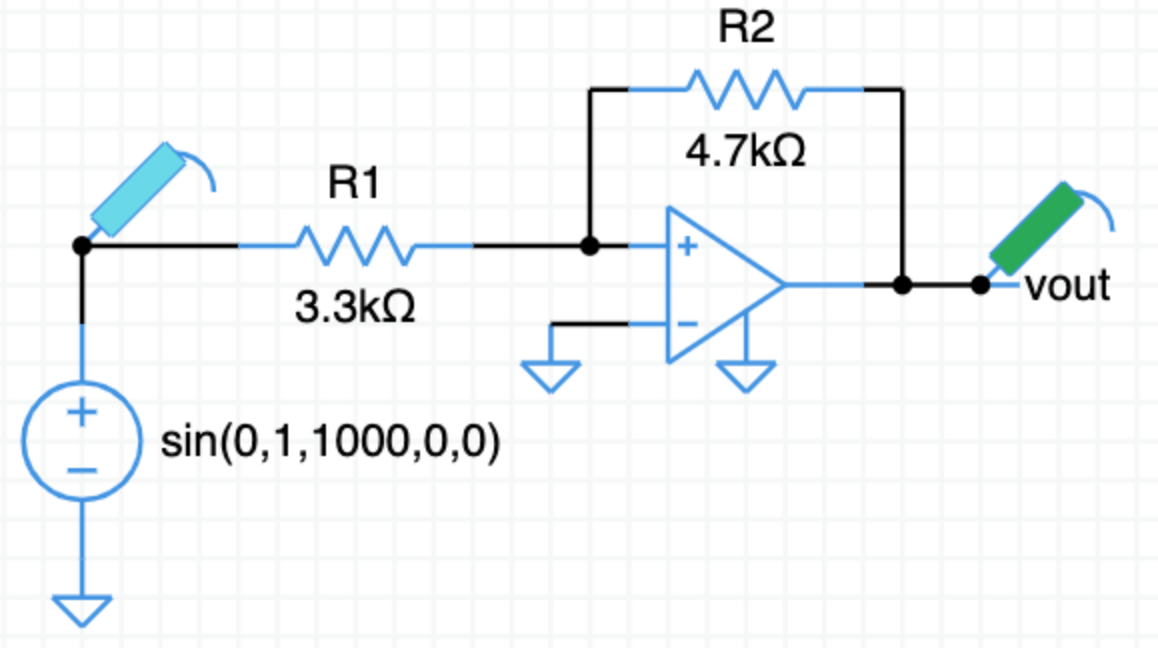
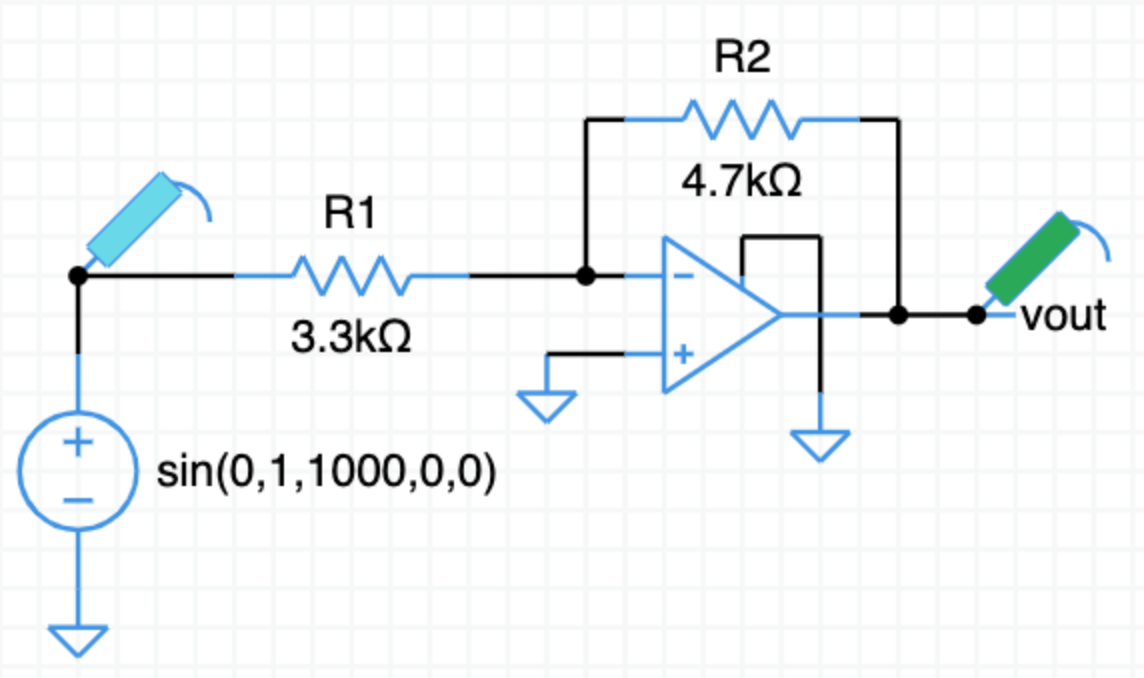
Flip opamp orientation in example.

Changed region(s): [[0.0, 0.0, 0.979, 0.9877]]

diff --git a/_articles/opamp-inverting-exercise.md b/_articles/opamp-inverting-exercise.md
@@ -4,9 +4,10 @@ title:  "Inverting opamp exercise"
 author: Willy McAllister
 comments: true
 ---
-![Inverting opamp example circuit]({{ site.baseurl }}{% link i/opamp_inverting_example.png %}){: .centered }{: height="300px" :} 
 
-Open this [simulation model of an inverting amplifier](https://spinningnumbers.org/circuit-sandbox/index.html?value=%5B%5B%22w%22%2C%5B256%2C96%2C240%2C96%5D%5D%2C%5B%22w%22%2C%5B232%2C96%2C240%2C96%5D%5D%2C%5B%22w%22%2C%5B240%2C56%2C240%2C96%5D%5D%2C%5B%22w%22%2C%5B232%2C56%2C240%2C56%5D%5D%2C%5B%22w%22%2C%5B152%2C88%2C176%2C88%5D%5D%2C%5B%22w%22%2C%5B184%2C88%2C176%2C88%5D%5D%2C%5B%22w%22%2C%5B176%2C56%2C176%2C88%5D%5D%2C%5B%22w%22%2C%5B184%2C56%2C176%2C56%5D%5D%2C%5B%22w%22%2C%5B104%2C88%2C72%2C88%5D%5D%2C%5B%22s%22%2C%5B256%2C96%2C0%5D%2C%7B%22color%22%3A%22green%22%2C%22offset%22%3A%220%22%2C%22_json_%22%3A9%7D%2C%5B%22vout%22%5D%5D%2C%5B%22s%22%2C%5B72%2C88%2C0%5D%2C%7B%22color%22%3A%22cyan%22%2C%22offset%22%3A%220%22%2C%22_json_%22%3A10%7D%2C%5B%222%22%5D%5D%2C%5B%22g%22%2C%5B208%2C104%2C0%5D%2C%7B%22_json_%22%3A11%7D%2C%5B%220%22%5D%5D%2C%5B%22g%22%2C%5B168%2C104%2C0%5D%2C%7B%22_json_%22%3A12%7D%2C%5B%220%22%5D%5D%2C%5B%22g%22%2C%5B72%2C152%2C0%5D%2C%7B%22_json_%22%3A13%7D%2C%5B%220%22%5D%5D%2C%5B%22w%22%2C%5B72%2C104%2C72%2C88%5D%5D%2C%5B%22v%22%2C%5B72%2C104%2C0%5D%2C%7B%22name%22%3A%22%22%2C%22value%22%3A%22sin(0%2C1%2C1000%2C0%2C0)%22%2C%22_json_%22%3A15%7D%2C%5B%222%22%2C%220%22%5D%5D%2C%5B%22L%22%2C%5B256%2C96%2C0%5D%2C%7B%22label%22%3A%22vout%22%2C%22_json_%22%3A16%7D%2C%5B%22vout%22%5D%5D%2C%5B%22w%22%2C%5B184%2C104%2C168%2C104%5D%5D%2C%5B%22r%22%2C%5B232%2C56%2C1%5D%2C%7B%22name%22%3A%22R2%22%2C%22r%22%3A%224.7k%22%2C%22_json_%22%3A18%7D%2C%5B%22vout%22%2C%221%22%5D%5D%2C%5B%22r%22%2C%5B152%2C88%2C1%5D%2C%7B%22name%22%3A%22R1%22%2C%22r%22%3A%223.3k%22%2C%22_json_%22%3A19%7D%2C%5B%221%22%2C%222%22%5D%5D%2C%5B%22o%22%2C%5B184%2C88%2C0%5D%2C%7B%22A%22%3A%2230000%22%2C%22_json_%22%3A20%7D%2C%5B%221%22%2C%220%22%2C%22vout%22%2C%220%22%5D%5D%2C%5B%22view%22%2C7.659999999999997%2C14.292000000000002%2C2.44140625%2C%2250%22%2C%2210%22%2C%221G%22%2Cnull%2C%22100%22%2C%220.009%22%2C%221000%22%5D%5D) in a new browser tab.
+Open this [simulation model of an inverting amplifier](https://spinningnumbers.org/circuit-sandbox/index.html?value=%5B%5B%22o%22%2C%5B184%2C104%2C6%5D%2C%7B%22A%22%3A%2230000%22%2C%22_json_%22%3A0%7D%2C%5B%220%22%2C%222%22%2C%22vout%22%2C%220%22%5D%5D%2C%5B%22r%22%2C%5B152%2C88%2C1%5D%2C%7B%22name%22%3A%22R1%22%2C%22r%22%3A%223.3k%22%2C%22_json_%22%3A1%7D%2C%5B%222%22%2C%221%22%5D%5D%2C%5B%22r%22%2C%5B232%2C56%2C1%5D%2C%7B%22name%22%3A%22R2%22%2C%22r%22%3A%224.7k%22%2C%22_json_%22%3A2%7D%2C%5B%22vout%22%2C%222%22%5D%5D%2C%5B%22w%22%2C%5B184%2C104%2C168%2C104%5D%5D%2C%5B%22L%22%2C%5B256%2C96%2C0%5D%2C%7B%22label%22%3A%22vout%22%2C%22_json_%22%3A4%7D%2C%5B%22vout%22%5D%5D%2C%5B%22v%22%2C%5B72%2C104%2C0%5D%2C%7B%22name%22%3A%22%22%2C%22value%22%3A%22sin(0%2C1%2C1000%2C0%2C0)%22%2C%22_json_%22%3A5%7D%2C%5B%221%22%2C%220%22%5D%5D%2C%5B%22w%22%2C%5B72%2C104%2C72%2C88%5D%5D%2C%5B%22g%22%2C%5B72%2C152%2C0%5D%2C%7B%22_json_%22%3A7%7D%2C%5B%220%22%5D%5D%2C%5B%22g%22%2C%5B168%2C104%2C0%5D%2C%7B%22_json_%22%3A8%7D%2C%5B%220%22%5D%5D%2C%5B%22g%22%2C%5B224%2C112%2C0%5D%2C%7B%22_json_%22%3A9%7D%2C%5B%220%22%5D%5D%2C%5B%22s%22%2C%5B72%2C88%2C0%5D%2C%7B%22color%22%3A%22cyan%22%2C%22offset%22%3A%220%22%2C%22_json_%22%3A10%7D%2C%5B%221%22%5D%5D%2C%5B%22s%22%2C%5B256%2C96%2C0%5D%2C%7B%22color%22%3A%22green%22%2C%22offset%22%3A%220%22%2C%22_json_%22%3A11%7D%2C%5B%22vout%22%5D%5D%2C%5B%22w%22%2C%5B104%2C88%2C72%2C88%5D%5D%2C%5B%22w%22%2C%5B184%2C56%2C176%2C56%5D%5D%2C%5B%22w%22%2C%5B176%2C56%2C176%2C88%5D%5D%2C%5B%22w%22%2C%5B184%2C88%2C176%2C88%5D%5D%2C%5B%22w%22%2C%5B232%2C56%2C240%2C56%5D%5D%2C%5B%22w%22%2C%5B240%2C56%2C240%2C96%5D%5D%2C%5B%22w%22%2C%5B232%2C96%2C240%2C96%5D%5D%2C%5B%22w%22%2C%5B256%2C96%2C240%2C96%5D%5D%2C%5B%22w%22%2C%5B152%2C88%2C176%2C88%5D%5D%2C%5B%22w%22%2C%5B224%2C112%2C224%2C80%5D%5D%2C%5B%22w%22%2C%5B224%2C80%2C208%2C80%5D%5D%2C%5B%22w%22%2C%5B208%2C80%2C208%2C88%5D%5D%2C%5B%22view%22%2C7.66%2C14.292%2C2.44140625%2C%2250%22%2C%2210%22%2C%221G%22%2Cnull%2C%22100%22%2C%220.004%22%2C%221000%22%5D%5D) in a new browser tab.
+
+[![Inverting opamp example circuit]({{ site.baseurl }}{% link i/opamp_inverting_example.png %}){: .centered }{: height="300px" :}](https://spinningnumbers.org/circuit-sandbox/index.html?value=%5B%5B%22o%22%2C%5B184%2C104%2C6%5D%2C%7B%22A%22%3A%2230000%22%2C%22_json_%22%3A0%7D%2C%5B%220%22%2C%222%22%2C%22vout%22%2C%220%22%5D%5D%2C%5B%22r%22%2C%5B152%2C88%2C1%5D%2C%7B%22name%22%3A%22R1%22%2C%22r%22%3A%223.3k%22%2C%22_json_%22%3A1%7D%2C%5B%222%22%2C%221%22%5D%5D%2C%5B%22r%22%2C%5B232%2C56%2C1%5D%2C%7B%22name%22%3A%22R2%22%2C%22r%22%3A%224.7k%22%2C%22_json_%22%3A2%7D%2C%5B%22vout%22%2C%222%22%5D%5D%2C%5B%22w%22%2C%5B184%2C104%2C168%2C104%5D%5D%2C%5B%22L%22%2C%5B256%2C96%2C0%5D%2C%7B%22label%22%3A%22vout%22%2C%22_json_%22%3A4%7D%2C%5B%22vout%22%5D%5D%2C%5B%22v%22%2C%5B72%2C104%2C0%5D%2C%7B%22name%22%3A%22%22%2C%22value%22%3A%22sin(0%2C1%2C1000%2C0%2C0)%22%2C%22_json_%22%3A5%7D%2C%5B%221%22%2C%220%22%5D%5D%2C%5B%22w%22%2C%5B72%2C104%2C72%2C88%5D%5D%2C%5B%22g%22%2C%5B72%2C152%2C0%5D%2C%7B%22_json_%22%3A7%7D%2C%5B%220%22%5D%5D%2C%5B%22g%22%2C%5B168%2C104%2C0%5D%2C%7B%22_json_%22%3A8%7D%2C%5B%220%22%5D%5D%2C%5B%22g%22%2C%5B224%2C112%2C0%5D%2C%7B%22_json_%22%3A9%7D%2C%5B%220%22%5D%5D%2C%5B%22s%22%2C%5B72%2C88%2C0%5D%2C%7B%22color%22%3A%22cyan%22%2C%22offset%22%3A%220%22%2C%22_json_%22%3A10%7D%2C%5B%221%22%5D%5D%2C%5B%22s%22%2C%5B256%2C96%2C0%5D%2C%7B%22color%22%3A%22green%22%2C%22offset%22%3A%220%22%2C%22_json_%22%3A11%7D%2C%5B%22vout%22%5D%5D%2C%5B%22w%22%2C%5B104%2C88%2C72%2C88%5D%5D%2C%5B%22w%22%2C%5B184%2C56%2C176%2C56%5D%5D%2C%5B%22w%22%2C%5B176%2C56%2C176%2C88%5D%5D%2C%5B%22w%22%2C%5B184%2C88%2C176%2C88%5D%5D%2C%5B%22w%22%2C%5B232%2C56%2C240%2C56%5D%5D%2C%5B%22w%22%2C%5B240%2C56%2C240%2C96%5D%5D%2C%5B%22w%22%2C%5B232%2C96%2C240%2C96%5D%5D%2C%5B%22w%22%2C%5B256%2C96%2C240%2C96%5D%5D%2C%5B%22w%22%2C%5B152%2C88%2C176%2C88%5D%5D%2C%5B%22w%22%2C%5B224%2C112%2C224%2C80%5D%5D%2C%5B%22w%22%2C%5B224%2C80%2C208%2C80%5D%5D%2C%5B%22w%22%2C%5B208%2C80%2C208%2C88%5D%5D%2C%5B%22view%22%2C7.66%2C14.292%2C2.44140625%2C%2250%22%2C%2210%22%2C%221G%22%2Cnull%2C%22100%22%2C%220.004%22%2C%221000%22%5D%5D) 
 
 **What is the expected gain of this amplifier?**
 

diff --git a/_articles/opamp-non-inverting-exercise.md b/_articles/opamp-non-inverting-exercise.md
@@ -5,7 +5,9 @@ author: Willy McAllister
 comments: true
 ---
 
-Open this simulation model of a [non-inverting amplifier](https://spinningnumbers.org/circuit-sandbox/index.html?value=[["o",[184,88,0],{"A":"30000","_json_":0},["1","2","vout","0"]],["r",[248,96,0],{"name":"R1","r":"5k","_json_":1},["vout","2"]],["r",[248,144,0],{"name":"R2","r":"10k","_json_":2},["2","0"]],["w",[184,104,168,104]],["w",[168,104,168,144]],["w",[168,144,248,144]],["w",[232,96,248,96]],["w",[272,96,248,96]],["L",[272,96,0],{"label":"vout","_json_":8},["vout"]],["v",[72,104,0],{"name":"","value":"sin(0,1,1000,0,0)","_json_":9},["1","0"]],["w",[72,104,72,88]],["g",[72,152,0],{"_json_":11},["0"]],["g",[248,192,0],{"_json_":12},["0"]],["g",[208,104,0],{"_json_":13},["0"]],["s",[128,88,0],{"color":"cyan","offset":"0","_json_":14},["1"]],["s",[272,96,0],{"color":"green","offset":"0","_json_":15},["vout"]],["w",[184,88,128,88]],["w",[72,88,128,88]],["view",15.659999999999997,42.292,2.44140625,"50","10","1G",null,"100","0.009","1000"]]) in another browser tab.
+Open this [simulation model of a non-inverting amplifier](https://spinningnumbers.org/circuit-sandbox/index.html?value=%5B%5B%22o%22%2C%5B184%2C88%2C0%5D%2C%7B%22A%22%3A%2230000%22%2C%22_json_%22%3A0%7D%2C%5B%221%22%2C%222%22%2C%22vout%22%2C%220%22%5D%5D%2C%5B%22r%22%2C%5B248%2C96%2C0%5D%2C%7B%22name%22%3A%22R1%22%2C%22r%22%3A%225k%22%2C%22_json_%22%3A1%7D%2C%5B%22vout%22%2C%222%22%5D%5D%2C%5B%22r%22%2C%5B248%2C144%2C0%5D%2C%7B%22name%22%3A%22R2%22%2C%22r%22%3A%2210k%22%2C%22_json_%22%3A2%7D%2C%5B%222%22%2C%220%22%5D%5D%2C%5B%22w%22%2C%5B184%2C104%2C168%2C104%5D%5D%2C%5B%22w%22%2C%5B168%2C104%2C168%2C144%5D%5D%2C%5B%22w%22%2C%5B168%2C144%2C248%2C144%5D%5D%2C%5B%22w%22%2C%5B232%2C96%2C248%2C96%5D%5D%2C%5B%22w%22%2C%5B272%2C96%2C248%2C96%5D%5D%2C%5B%22L%22%2C%5B272%2C96%2C0%5D%2C%7B%22label%22%3A%22vout%22%2C%22_json_%22%3A8%7D%2C%5B%22vout%22%5D%5D%2C%5B%22v%22%2C%5B72%2C104%2C0%5D%2C%7B%22name%22%3A%22%22%2C%22value%22%3A%22sin(0%2C1%2C1000%2C0%2C0)%22%2C%22_json_%22%3A9%7D%2C%5B%221%22%2C%220%22%5D%5D%2C%5B%22w%22%2C%5B72%2C104%2C72%2C88%5D%5D%2C%5B%22g%22%2C%5B72%2C152%2C0%5D%2C%7B%22_json_%22%3A11%7D%2C%5B%220%22%5D%5D%2C%5B%22g%22%2C%5B248%2C192%2C0%5D%2C%7B%22_json_%22%3A12%7D%2C%5B%220%22%5D%5D%2C%5B%22g%22%2C%5B208%2C104%2C0%5D%2C%7B%22_json_%22%3A13%7D%2C%5B%220%22%5D%5D%2C%5B%22s%22%2C%5B128%2C88%2C0%5D%2C%7B%22color%22%3A%22cyan%22%2C%22offset%22%3A%220%22%2C%22_json_%22%3A14%7D%2C%5B%221%22%5D%5D%2C%5B%22s%22%2C%5B272%2C96%2C0%5D%2C%7B%22color%22%3A%22green%22%2C%22offset%22%3A%220%22%2C%22_json_%22%3A15%7D%2C%5B%22vout%22%5D%5D%2C%5B%22w%22%2C%5B184%2C88%2C128%2C88%5D%5D%2C%5B%22w%22%2C%5B72%2C88%2C128%2C88%5D%5D%2C%5B%22view%22%2C15.66%2C42.292%2C2.44140625%2C%2250%22%2C%2210%22%2C%221G%22%2Cnull%2C%22100%22%2C%220.004%22%2C%221000%22%5D%5D) in another browser tab.
+
+[![Inverting opamp example circuit]({{ site.baseurl }}{% link i/opamp_non_inverting_example.png %}){: .centered }{: height="300px" :}](https://spinningnumbers.org/circuit-sandbox/index.html?value=%5B%5B%22o%22%2C%5B184%2C88%2C0%5D%2C%7B%22A%22%3A%2230000%22%2C%22_json_%22%3A0%7D%2C%5B%221%22%2C%222%22%2C%22vout%22%2C%220%22%5D%5D%2C%5B%22r%22%2C%5B248%2C96%2C0%5D%2C%7B%22name%22%3A%22R1%22%2C%22r%22%3A%225k%22%2C%22_json_%22%3A1%7D%2C%5B%22vout%22%2C%222%22%5D%5D%2C%5B%22r%22%2C%5B248%2C144%2C0%5D%2C%7B%22name%22%3A%22R2%22%2C%22r%22%3A%2210k%22%2C%22_json_%22%3A2%7D%2C%5B%222%22%2C%220%22%5D%5D%2C%5B%22w%22%2C%5B184%2C104%2C168%2C104%5D%5D%2C%5B%22w%22%2C%5B168%2C104%2C168%2C144%5D%5D%2C%5B%22w%22%2C%5B168%2C144%2C248%2C144%5D%5D%2C%5B%22w%22%2C%5B232%2C96%2C248%2C96%5D%5D%2C%5B%22w%22%2C%5B272%2C96%2C248%2C96%5D%5D%2C%5B%22L%22%2C%5B272%2C96%2C0%5D%2C%7B%22label%22%3A%22vout%22%2C%22_json_%22%3A8%7D%2C%5B%22vout%22%5D%5D%2C%5B%22v%22%2C%5B72%2C104%2C0%5D%2C%7B%22name%22%3A%22%22%2C%22value%22%3A%22sin(0%2C1%2C1000%2C0%2C0)%22%2C%22_json_%22%3A9%7D%2C%5B%221%22%2C%220%22%5D%5D%2C%5B%22w%22%2C%5B72%2C104%2C72%2C88%5D%5D%2C%5B%22g%22%2C%5B72%2C152%2C0%5D%2C%7B%22_json_%22%3A11%7D%2C%5B%220%22%5D%5D%2C%5B%22g%22%2C%5B248%2C192%2C0%5D%2C%7B%22_json_%22%3A12%7D%2C%5B%220%22%5D%5D%2C%5B%22g%22%2C%5B208%2C104%2C0%5D%2C%7B%22_json_%22%3A13%7D%2C%5B%220%22%5D%5D%2C%5B%22s%22%2C%5B128%2C88%2C0%5D%2C%7B%22color%22%3A%22cyan%22%2C%22offset%22%3A%220%22%2C%22_json_%22%3A14%7D%2C%5B%221%22%5D%5D%2C%5B%22s%22%2C%5B272%2C96%2C0%5D%2C%7B%22color%22%3A%22green%22%2C%22offset%22%3A%220%22%2C%22_json_%22%3A15%7D%2C%5B%22vout%22%5D%5D%2C%5B%22w%22%2C%5B184%2C88%2C128%2C88%5D%5D%2C%5B%22w%22%2C%5B72%2C88%2C128%2C88%5D%5D%2C%5B%22view%22%2C15.66%2C42.292%2C2.44140625%2C%2250%22%2C%2210%22%2C%221G%22%2Cnull%2C%22100%22%2C%220.004%22%2C%221000%22%5D%5D)
 
 **What is the expected gain of this amplifier?**
 

diff --git a/_articles/opamp-exercise.md b/_articles/opamp-exercise.md
@@ -7,15 +7,17 @@ comments: true
 
 Let's introduce the ideal opamp. 
 
-![Opamp schematic symbol]({{ site.baseurl }}{% link i/opamp_schematic_symbol.png %}){: height="140px" :}{: .centered :}
+![Opamp schematic symbol]({{ site.baseurl }}{% link i/circuit_sandbox_opamp_symbol.png %}){: height="140px" :}{: .centered :}
 
 An opamp is a *differential* amplifier. It measures the difference in voltage between its two input ports. It amplifies that difference and puts the result on the output port.
 
 $v_o = \text A \,(v^+ - v^-)$
 
+See also the [Circuit sandbox opamp model]({{ site.baseurl }}{% link _articles/circuit-sandbox.md %}#opamp).  
+
 Open up this incomplete [schematic](https://spinningnumbers.org/circuit-sandbox/index.html?value=%5B%5B%22s%22%2C%5B240%2C72%2C0%5D%2C%7B%22color%22%3A%22cyan%22%2C%22offset%22%3A%220%22%2C%22_json_%22%3A0%7D%2C%5B%228%22%5D%5D%2C%5B%22w%22%2C%5B248%2C96%2C232%2C96%5D%5D%2C%5B%22g%22%2C%5B208%2C152%2C0%5D%2C%7B%22_json_%22%3A2%7D%2C%5B%220%22%5D%5D%2C%5B%22v%22%2C%5B56%2C104%2C0%5D%2C%7B%22name%22%3A%22v%2B%22%2C%22value%22%3A%22dc(1.1)%22%2C%22_json_%22%3A3%7D%2C%5B%227%22%2C%226%22%5D%5D%2C%5B%22L%22%2C%5B248%2C96%2C0%5D%2C%7B%22label%22%3A%22vout%22%2C%22_json_%22%3A4%7D%2C%5B%22vout%22%5D%5D%2C%5B%22o%22%2C%5B184%2C88%2C0%5D%2C%7B%22name%22%3A%22%22%2C%22A%22%3A%2210%22%2C%22_json_%22%3A5%7D%2C%5B%225%22%2C%224%22%2C%22vout%22%2C%223%22%5D%5D%2C%5B%22v%22%2C%5B144%2C104%2C0%5D%2C%7B%22name%22%3A%22v-%22%2C%22value%22%3A%22dc(1)%22%2C%22_json_%22%3A6%7D%2C%5B%222%22%2C%221%22%5D%5D%2C%5B%22view%22%2C-8.34%2C14.292%2C2.44140625%2C%2250%22%2C%2210%22%2C%221G%22%2Cnull%2C%22100%22%2C%220.0099%22%2C%221000%22%5D%5D) in another browser tab.
 
-The triangle is the symbol for an opamp. The gain of this opamp has been set really low so you can see how a differential amplifier works.
+The gain of this opamp has been set really low so you can see how a differential amplifier works.
 
 Double-click on the opamp. Give it a name like "U1".   
 **What is the gain of this opamp, $\text A$?**

diff --git a/_articles/circuit-sandbox.md b/_articles/circuit-sandbox.md
@@ -149,9 +149,25 @@ You can add unattached text annotation to the circuit with the same label part. 
 
 ## Device models
 
-The simulator has simple models for semiconductor devices and an operational amplifier, with just a few adjustable parameters. For more sophisticated simulations, check out the other circuit simulator resources mentioned below. 
+The simulator has simple models for semiconductor devices and an ideal operational amplifier. Each model has just a few adjustable parameters. For more sophisticated simulations, check out the other circuit simulator resources mentioned below. 
 
-The default diode saturation current is $\text I_\text s = 1.0\times 10^{-14} \text A$. The diode's *area* parameter scales up the saturation current to $a \times \text I_\text s$. 
+### Diode model
+
+The default diode saturation current is $\text I_\text s = 1.0\times 10^{-14}$ ampere. The diode's Area parameter scales the saturation current to Area $\times \,\text I_\text s$. 
+
+{% include img.html img="circuit_sandbox_diode_symbol.png" alt="Circuit Sandbox diode symbol" %}{: height="180px" :}
+
+Setting the area is equivalent to placing that many diodes in parallel.
+
+### Opamp model
+
+The ideal opamp symbol has two inputs (v+ and v-) and an output (vo). There are no positive and negative power supply inputs. The extra input, vg, is the reference for the output voltage. 
+
+{% include img.html img="circuit_sandbox_opamp_symbol.png" alt="Circuit Sandbox opamp symbol" %}{: height="140px" :}
+
+The defining equation for the opamp is: A(vp - vn) = vo - vg
+
+The default gain is A $= 30{,}000$. If the input voltages are identical then the output voltage will be vg. If you plan on symmetric power supply voltages, connect vg to ground. If they are not symmetric set vg half way between whatever power inputs you intend for your opamp. 
 
 ## System information
 
